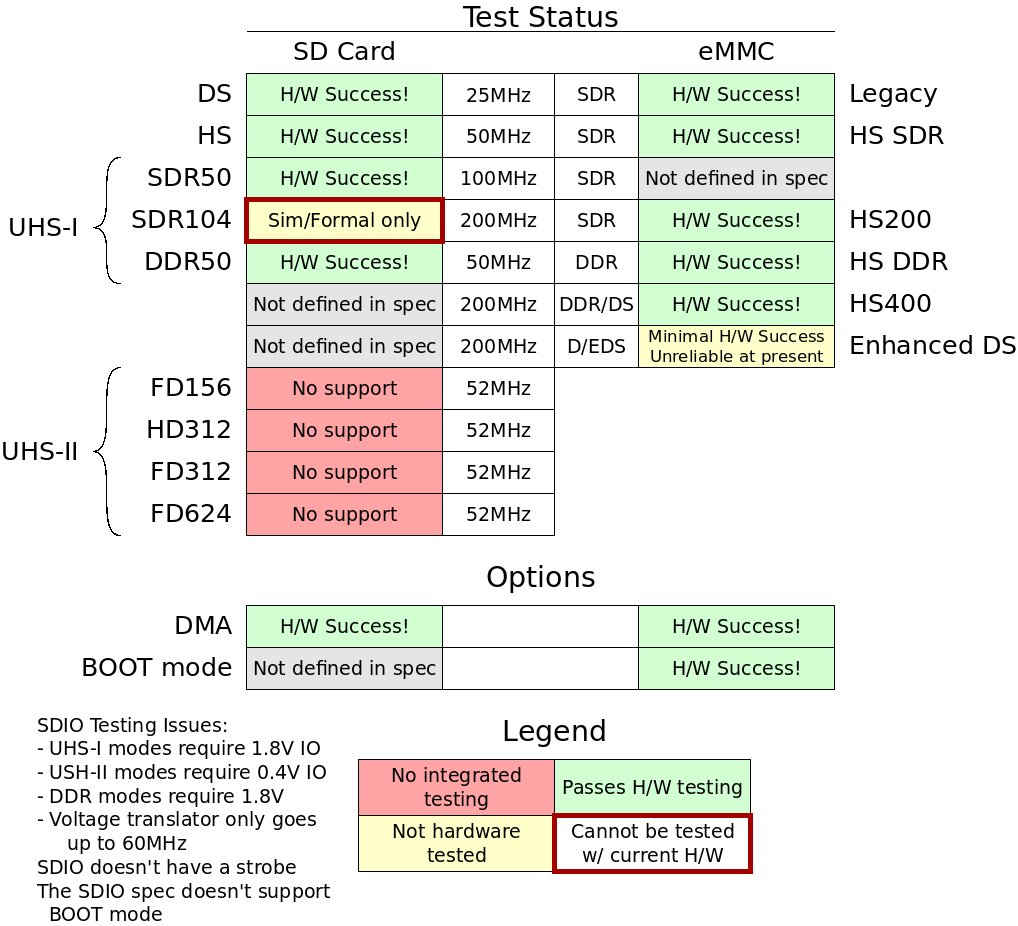
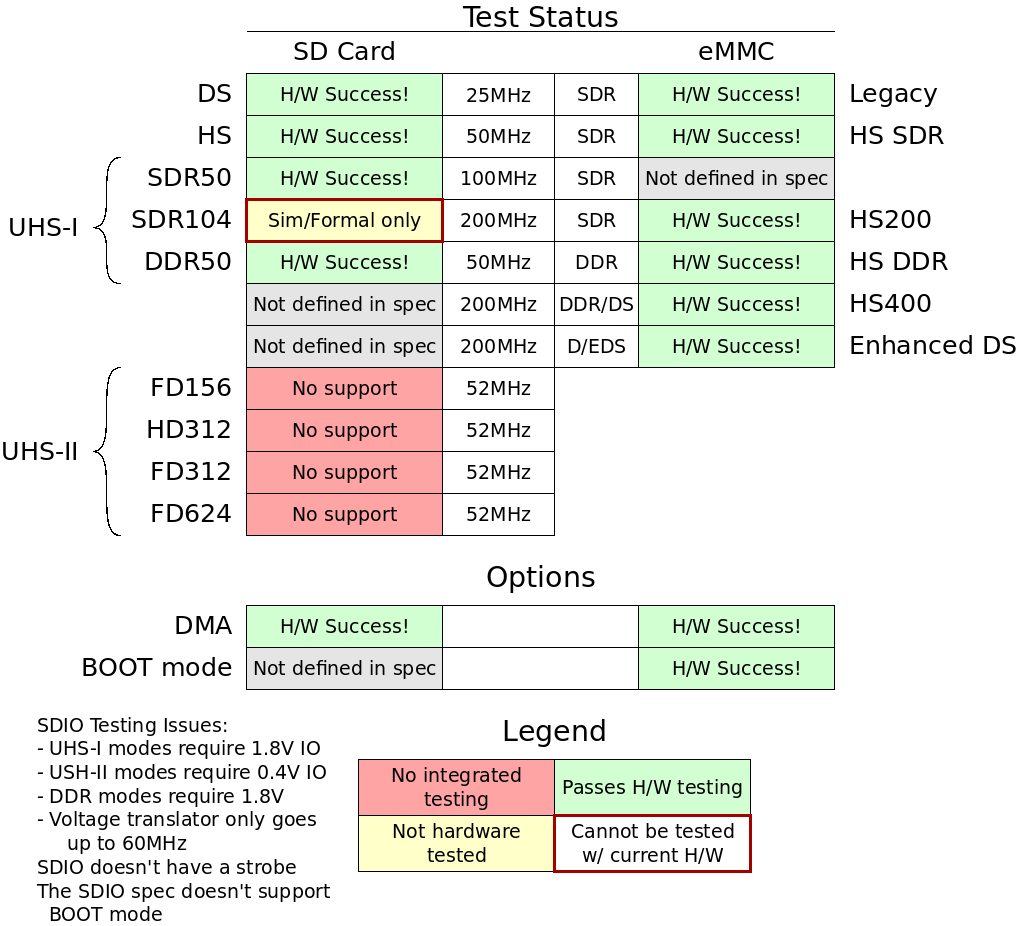
FIX: vi folding in SDWB now accounts for CMD TRIM

Changed region(s): [[0.609, 0.3326, 0.8222, 0.4233]]

diff --git a/bench/verilog/report.html b/bench/verilog/report.html
@@ -2,24 +2,24 @@
 <H1 align=center>SD Controller Simulation Report</H1>
 <P align=center><TABLE border>
 <TR><TH>Test</TH><TH>Status</TH><TH>Sim Timestamp</TH><TH>Tool</TH></TR>
-<TR><TH><A HREF="../testcases/AXI">axdmachk</A></TH><TD bgcolor=#caeec8><A HREF="test/axdmachk.txt">Pass</A></TD><TD>2026/08/04 13:14:29</TD><TD>IVerilog</TD></TR>
-<TR><TH><A HREF="../testcases/AXI">axemmc8x</A></TH><TD bgcolor=#caeec8><A HREF="test/axemmc8x.txt">Pass</A></TD><TD>2026/08/04 13:20:21</TD><TD>IVerilog</TD></TR>
-<TR><TH><A HREF="../testcases/AXI">axemmcddr</A></TH><TD bgcolor=#caeec8><A HREF="test/axemmcddr.txt">Pass</A></TD><TD>2026/08/04 13:09:43</TD><TD>IVerilog</TD></TR>
-<TR><TH><A HREF="../testcases/AXI">axemmcio</A></TH><TD bgcolor=#caeec8><A HREF="test/axemmcio.txt">Pass</A></TD><TD>2026/08/04 13:10:36</TD><TD>IVerilog</TD></TR>
-<TR><TH><A HREF="../testcases/AXI">axsdio8x</A></TH><TD bgcolor=#caeec8><A HREF="test/axsdio8x.txt">Pass</A></TD><TD>2026/08/04 13:14:06</TD><TD>IVerilog</TD></TR>
-<TR><TH><A HREF="../testcases/AXI">axsdioddr</A></TH><TD bgcolor=#caeec8><A HREF="test/axsdioddr.txt">Pass</A></TD><TD>2026/08/04 13:12:13</TD><TD>IVerilog</TD></TR>
-<TR><TH><A HREF="../testcases/AXI">axsdioio</A></TH><TD bgcolor=#caeec8><A HREF="test/axsdioio.txt">Pass</A></TD><TD>2026/08/04 13:12:31</TD><TD>IVerilog</TD></TR>
-<TR><TH><A HREF="../testcases/AXI">axsdstream</A></TH><TD bgcolor=#caeec8><A HREF="test/axsdstream.txt">Pass</A></TD><TD>2026/08/04 13:10:51</TD><TD>IVerilog</TD></TR>
-<TR><TH><A HREF="../testcases/AXI">axslvio</A></TH><TD bgcolor=#caeec8><A HREF="test/axslvio.txt">Pass</A></TD><TD>2026/08/04 13:16:20</TD><TD>IVerilog</TD></TR>
-<TR><TH><A HREF="../testcases/WB">emmc8x</A></TH><TD bgcolor=#caeec8><A HREF="test/emmc8x.txt">Pass</A></TD><TD>2026/08/04 13:09:09</TD><TD>IVerilog</TD></TR>
-<TR><TH><A HREF="../testcases/WB">emmcboot8x</A></TH><TD bgcolor=#caeec8><A HREF="test/emmcboot8x.txt">Pass</A></TD><TD>2026/08/04 13:10:19</TD><TD>IVerilog</TD></TR>
-<TR><TH><A HREF="../testcases/WB">emmcddr</A></TH><TD bgcolor=#caeec8><A HREF="test/emmcddr.txt">Pass</A></TD><TD>2026/08/04 13:03:56</TD><TD>IVerilog</TD></TR>
-<TR><TH><A HREF="../testcases/WB">emmcio</A></TH><TD bgcolor=#caeec8><A HREF="test/emmcio.txt">Pass</A></TD><TD>2026/08/04 13:03:28</TD><TD>IVerilog</TD></TR>
-<TR><TH><A HREF="../testcases/WB">sddmachk</A></TH><TD bgcolor=#caeec8><A HREF="test/sddmachk.txt">Pass</A></TD><TD>2026/08/04 13:08:34</TD><TD>IVerilog</TD></TR>
-<TR><TH><A HREF="../testcases/WB">sdinsert</A></TH><TD bgcolor=#caeec8><A HREF="test/sdinsert.txt">Pass</A></TD><TD>2026/08/04 13:06:50</TD><TD>IVerilog</TD></TR>
-<TR><TH><A HREF="../testcases/WB">sdio8x</A></TH><TD bgcolor=#caeec8><A HREF="test/sdio8x.txt">Pass</A></TD><TD>2026/08/04 13:08:55</TD><TD>IVerilog</TD></TR>
-<TR><TH><A HREF="../testcases/WB">sdioddr</A></TH><TD bgcolor=#caeec8><A HREF="test/sdioddr.txt">Pass</A></TD><TD>2026/08/04 13:05:17</TD><TD>IVerilog</TD></TR>
-<TR><TH><A HREF="../testcases/WB">sdioio</A></TH><TD bgcolor=#caeec8><A HREF="test/sdioio.txt">Pass</A></TD><TD>2026/08/04 13:04:02</TD><TD>IVerilog</TD></TR>
-<TR><TH><A HREF="../testcases/WB">sdslvio</A></TH><TD bgcolor=#caeec8><A HREF="test/sdslvio.txt">Pass</A></TD><TD>2026/08/04 13:12:15</TD><TD>IVerilog</TD></TR>
-<TR><TH><A HREF="../testcases/WB">sdstream</A></TH><TD bgcolor=#caeec8><A HREF="test/sdstream.txt">Pass</A></TD><TD>2026/08/04 13:05:53</TD><TD>IVerilog</TD></TR>
+<TR><TH><A HREF="../testcases/AXI">axdmachk</A></TH><TD bgcolor=#caeec8><A HREF="test/axdmachk.txt">Pass</A></TD><TD>2026/08/10 14:36:00</TD><TD>IVerilog</TD></TR>
+<TR><TH><A HREF="../testcases/AXI">axemmc8x</A></TH><TD bgcolor=#caeec8><A HREF="test/axemmc8x.txt">Pass</A></TD><TD>2026/08/10 14:41:26</TD><TD>IVerilog</TD></TR>
+<TR><TH><A HREF="../testcases/AXI">axemmcddr</A></TH><TD bgcolor=#caeec8><A HREF="test/axemmcddr.txt">Pass</A></TD><TD>2026/08/10 14:32:09</TD><TD>IVerilog</TD></TR>
+<TR><TH><A HREF="../testcases/AXI">axemmcio</A></TH><TD bgcolor=#caeec8><A HREF="test/axemmcio.txt">Pass</A></TD><TD>2026/08/10 14:33:00</TD><TD>IVerilog</TD></TR>
+<TR><TH><A HREF="../testcases/AXI">axsdio8x</A></TH><TD bgcolor=#caeec8><A HREF="test/axsdio8x.txt">Pass</A></TD><TD>2026/08/10 14:36:25</TD><TD>IVerilog</TD></TR>
+<TR><TH><A HREF="../testcases/AXI">axsdioddr</A></TH><TD bgcolor=#caeec8><A HREF="test/axsdioddr.txt">Pass</A></TD><TD>2026/08/10 14:34:03</TD><TD>IVerilog</TD></TR>
+<TR><TH><A HREF="../testcases/AXI">axsdioio</A></TH><TD bgcolor=#caeec8><A HREF="test/axsdioio.txt">Pass</A></TD><TD>2026/08/10 14:34:27</TD><TD>IVerilog</TD></TR>
+<TR><TH><A HREF="../testcases/AXI">axsdstream</A></TH><TD bgcolor=#caeec8><A HREF="test/axsdstream.txt">Pass</A></TD><TD>2026/08/10 14:33:28</TD><TD>IVerilog</TD></TR>
+<TR><TH><A HREF="../testcases/AXI">axslvio</A></TH><TD bgcolor=#caeec8><A HREF="test/axslvio.txt">Pass</A></TD><TD>2026/08/10 14:38:41</TD><TD>IVerilog</TD></TR>
+<TR><TH><A HREF="../testcases/WB">emmc8x</A></TH><TD bgcolor=#caeec8><A HREF="test/emmc8x.txt">Pass</A></TD><TD>2026/08/10 14:31:55</TD><TD>IVerilog</TD></TR>
+<TR><TH><A HREF="../testcases/WB">emmcboot8x</A></TH><TD bgcolor=#caeec8><A HREF="test/emmcboot8x.txt">Pass</A></TD><TD>2026/08/10 14:32:54</TD><TD>IVerilog</TD></TR>
+<TR><TH><A HREF="../testcases/WB">emmcddr</A></TH><TD bgcolor=#caeec8><A HREF="test/emmcddr.txt">Pass</A></TD><TD>2026/08/10 14:27:02</TD><TD>IVerilog</TD></TR>
+<TR><TH><A HREF="../testcases/WB">emmcio</A></TH><TD bgcolor=#caeec8><A HREF="test/emmcio.txt">Pass</A></TD><TD>2026/08/10 14:26:29</TD><TD>IVerilog</TD></TR>
+<TR><TH><A HREF="../testcases/WB">sddmachk</A></TH><TD bgcolor=#caeec8><A HREF="test/sddmachk.txt">Pass</A></TD><TD>2026/08/10 14:31:06</TD><TD>IVerilog</TD></TR>
+<TR><TH><A HREF="../testcases/WB">sdinsert</A></TH><TD bgcolor=#caeec8><A HREF="test/sdinsert.txt">Pass</A></TD><TD>2026/08/10 14:29:31</TD><TD>IVerilog</TD></TR>
+<TR><TH><A HREF="../testcases/WB">sdio8x</A></TH><TD bgcolor=#caeec8><A HREF="test/sdio8x.txt">Pass</A></TD><TD>2026/08/10 14:32:03</TD><TD>IVerilog</TD></TR>
+<TR><TH><A HREF="../testcases/WB">sdioddr</A></TH><TD bgcolor=#caeec8><A HREF="test/sdioddr.txt">Pass</A></TD><TD>2026/08/10 14:28:18</TD><TD>IVerilog</TD></TR>
+<TR><TH><A HREF="../testcases/WB">sdioio</A></TH><TD bgcolor=#caeec8><A HREF="test/sdioio.txt">Pass</A></TD><TD>2026/08/10 14:27:44</TD><TD>IVerilog</TD></TR>
+<TR><TH><A HREF="../testcases/WB">sdslvio</A></TH><TD bgcolor=#caeec8><A HREF="test/sdslvio.txt">Pass</A></TD><TD>2026/08/10 14:34:52</TD><TD>IVerilog</TD></TR>
+<TR><TH><A HREF="../testcases/WB">sdstream</A></TH><TD bgcolor=#caeec8><A HREF="test/sdstream.txt">Pass</A></TD><TD>2026/08/10 14:28:17</TD><TD>IVerilog</TD></TR>
 </TABLE></P></BODY></HTML>

diff --git a/bench/formal/report.html b/bench/formal/report.html
@@ -1,7 +1,7 @@
 <HTML><HEAD><TITLE>Formal Verification Report</TITLE></HEAD>
 <BODY>
 <H1 align=center>SD Controller Formal Verification Report</H1>
-<H2 align=center>20260805</H2>
+<H2 align=center>20260810</H2>
 <P align=center><TABLE border>
 <TR><TH>Status</TH><TH>Elapsed</TH><TH>Component</TD><TH>Proof</TH><TH>Component description</TH></TR>
 <TR></TR>
@@ -12,7 +12,7 @@
 <TR><TD bgcolor=#caeec8><A HREF="llsdspi_prf/logfile.txt">Pass</A></TD><TD>0:00:00</TD><TD>_prf</TD></TR>
 <TR></TR>
 <TR><TD bgcolor=#caeec8><A HREF="sdax_mm2s_cvr/logfile.txt">4 Cover points</A></TD><TD>0:00:02</TD><TD rowspan=2>sdax_mm2s</TD><TD>_cvr</TD><TD rowspan=2>DMA (AXI) Memory copy to stream</TD></TR>
-<TR><TD bgcolor=#e5e5e5><A HREF="sdax_mm2s_prf/logfile.txt">Unknown</A></TD><TD>93:00:39</TD><TD>_prf</TD></TR>
+<TR><TD bgcolor=#caeec8><A HREF="sdax_mm2s_prf/logfile.txt">Pass</A></TD><TD>160:00:40</TD><TD>_prf</TD></TR>
 <TR></TR>
 <TR><TD bgcolor=#caeec8><A HREF="sdax_s2mm_prf/logfile.txt">Pass</A></TD><TD>5:36:10</TD><TD rowspan=2>sdax_s2mm</TD><TD>_prf</TD><TD rowspan=2>DMA (AXI) Stream copy to memory DMA</TD></TR>
 <TR><TD bgcolor=#caeec8><A HREF="sdax_s2mm_cvr/logfile.txt">9 Cover points</A></TD><TD>0:00:12</TD><TD>_cvr</TD></TR>
@@ -69,13 +69,13 @@
 <TR><TD bgcolor=#caeec8><A HREF="sdtxframe_cvrs/logfile.txt">43 Cover points</A></TD><TD>0:05:50</TD><TD>_cvrs</TD></TR>
 <TR><TD bgcolor=#caeec8><A HREF="sdtxframe_prf/logfile.txt">Pass</A></TD><TD>0:00:01</TD><TD>_prf</TD></TR>
 <TR></TR>
-<TR><TD bgcolor=#caeec8><A HREF="sdwb_cvr/logfile.txt">19 Cover points</A></TD><TD>0:52:31</TD><TD rowspan=7>sdwb</TD><TD>_cvr</TD><TD rowspan=7>SDIO Wishbone Bus handler</TD></TR>
-<TR><TD bgcolor=#caeec8><A HREF="sdwb_pboot/logfile.txt">Pass</A></TD><TD>0:01:13</TD><TD>_pboot</TD></TR>
-<TR><TD bgcolor=#caeec8><A HREF="sdwb_prfds/logfile.txt">Pass</A></TD><TD>0:00:20</TD><TD>_prfds</TD></TR>
-<TR><TD bgcolor=#caeec8><A HREF="sdwb_prf/logfile.txt">Pass</A></TD><TD>0:00:03</TD><TD>_prf</TD></TR>
-<TR><TD bgcolor=#caeec8><A HREF="sdwb_cvrb/logfile.txt">20 Cover points</A></TD><TD>0:34:45</TD><TD>_cvrb</TD></TR>
-<TR><TD bgcolor=#caeec8><A HREF="sdwb_prfdma/logfile.txt">Pass</A></TD><TD>0:01:17</TD><TD>_prfdma</TD></TR>
-<TR><TD bgcolor=#caeec8><A HREF="sdwb_prfdr/logfile.txt">Pass</A></TD><TD>0:00:18</TD><TD>_prfdr</TD></TR>
+<TR><TD bgcolor=#caeec8><A HREF="sdwb_cvr/logfile.txt">19 Cover points</A></TD><TD>0:26:55</TD><TD rowspan=7>sdwb</TD><TD>_cvr</TD><TD rowspan=7>SDIO Wishbone Bus handler</TD></TR>
+<TR><TD bgcolor=#caeec8><A HREF="sdwb_pboot/logfile.txt">Pass</A></TD><TD>0:00:10</TD><TD>_pboot</TD></TR>
+<TR><TD bgcolor=#caeec8><A HREF="sdwb_prfds/logfile.txt">Pass</A></TD><TD>0:00:10</TD><TD>_prfds</TD></TR>
+<TR><TD bgcolor=#caeec8><A HREF="sdwb_prf/logfile.txt">Pass</A></TD><TD>0:00:04</TD><TD>_prf</TD></TR>
+<TR><TD bgcolor=#caeec8><A HREF="sdwb_cvrb/logfile.txt">20 Cover points</A></TD><TD>0:20:43</TD><TD>_cvrb</TD></TR>
+<TR><TD bgcolor=#caeec8><A HREF="sdwb_prfdma/logfile.txt">Pass</A></TD><TD>0:00:10</TD><TD>_prfdma</TD></TR>
+<TR><TD bgcolor=#caeec8><A HREF="sdwb_prfdr/logfile.txt">Pass</A></TD><TD>0:00:09</TD><TD>_prfdr</TD></TR>
 <TR></TR>
 <TR><TD bgcolor=#caeec8><A HREF="spicmd_prf/logfile.txt">Pass</A></TD><TD>0:00:00</TD><TD rowspan=2>spicmd</TD><TD>_prf</TD><TD rowspan=2>SPI Command processor</TD></TR>
 <TR><TD bgcolor=#caeec8><A HREF="spicmd_cvr/logfile.txt">11 Cover points</A></TD><TD>0:00:04</TD><TD>_cvr</TD></TR>
